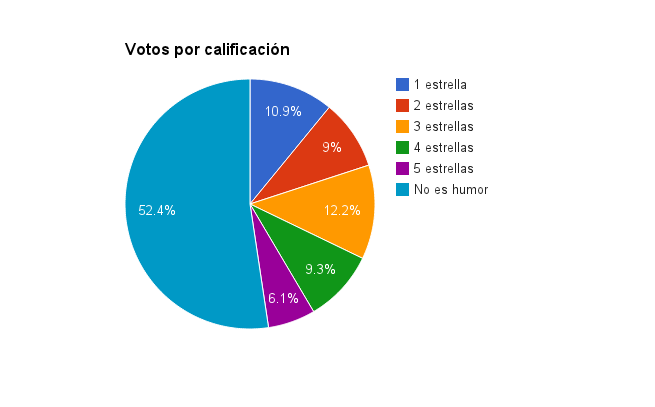
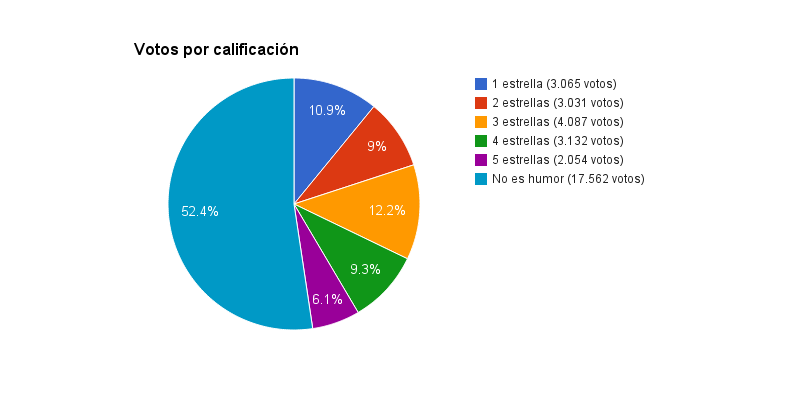
Saca tabla de votos por calificación y muestra todo en la gráfica

Changed region(s): [[0.3359, 0.1769, 0.8244, 0.8256], [0.1832, 0.2359, 0.3053, 0.7961], [0.1527, 0.0885, 0.458, 0.1474]]

diff --git a/partes/corpus.tex b/partes/corpus.tex
@@ -51,17 +51,6 @@
     \framebreak
 
     \begin{center}
-        \begin{tabular}{ c | r }
-            Calificación & \#votos \\
-            \hline
-            1 estrella & 3.665 \\
-            2 estrellas & 3.031 \\
-            3 estrellas & 4.087 \\
-            4 estrellas & 3.132 \\
-            5 estrellas & 2.054 \\
-            No es humor & 17.562 \\
-        \end{tabular}
-
         \includegraphics{votos_por_calificacion_torta.png}
 
         \includegraphics{votos_por_categoria_torta.png}
